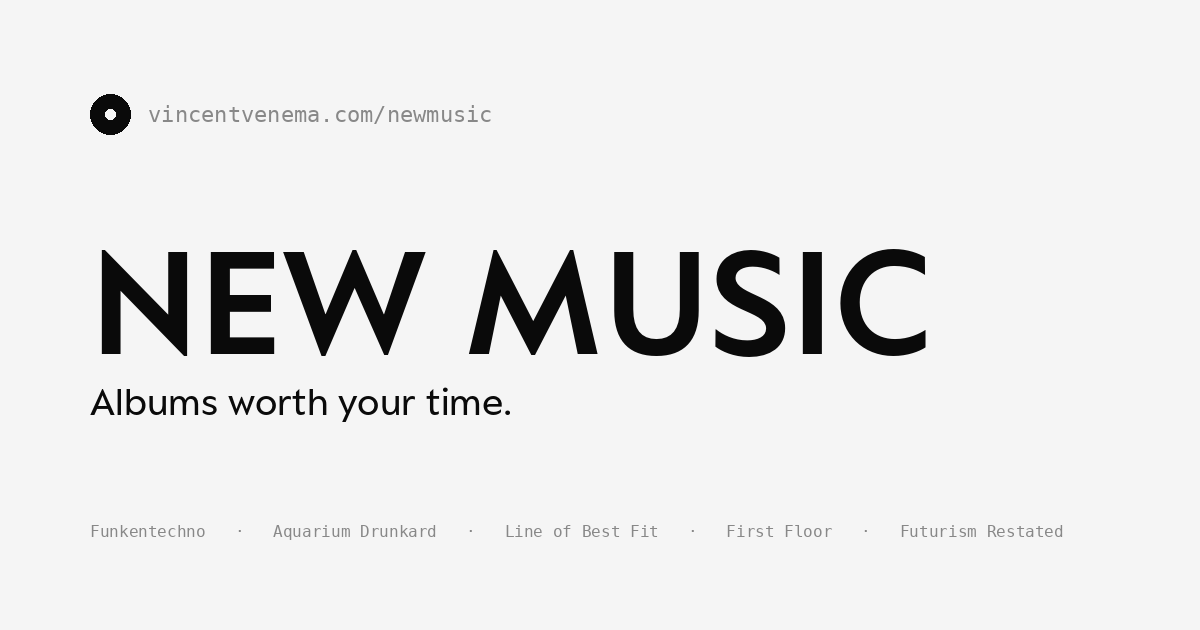
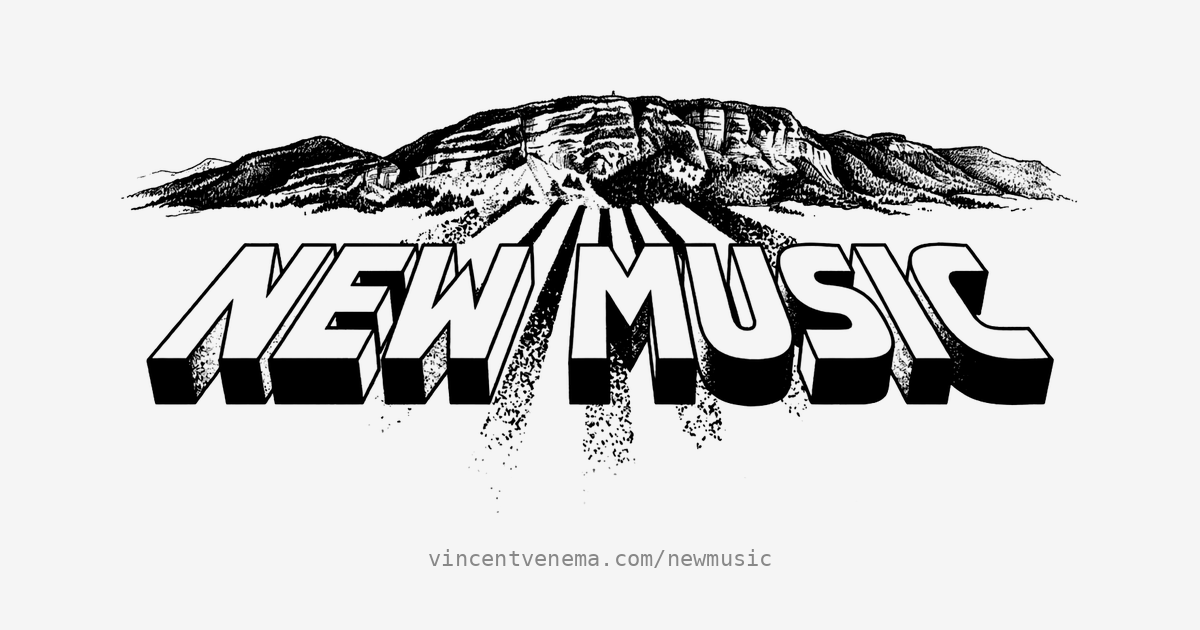
Add files via upload

diff --git a/index.html b/index.html
@@ -64,12 +64,10 @@
   .wrap { max-width: 720px; margin: 0 auto; }
 
   header { margin-bottom: 32px; }
-  h1 { font-size: clamp(34px, 10.5vw, 86px); font-weight: 500; line-height: 1.05; margin-bottom: 20px; letter-spacing: -0.03em; white-space: nowrap; }
-  h1 a {
-    color: var(--ink);
-    text-decoration: none;
-  }
-  h1 a:hover { text-decoration: underline; text-decoration-thickness: 2px; text-underline-offset: 6px; }
+  h1 { margin: 0 0 28px; line-height: 0; }
+  h1 a { display: block; }
+  .header-img { display: block; width: 100%; height: auto; transition: opacity 0.15s; }
+  h1 a:hover .header-img { opacity: 0.85; }
   .intro { font-size: 16px; line-height: 1.5; color: var(--soft); max-width: 520px; }
   .intro a {
     color: var(--soft); text-decoration: underline; text-decoration-color: var(--link-underline);
@@ -192,7 +190,7 @@
 <div class="wrap">
 
   <header>
-    <h1><a href="https://vincentvenema.com/newmusic/">NEW MUSIC 2026</a></h1>
+    <h1><a href="https://vincentvenema.com/newmusic/"><img src="assets/new-music-header.png" alt="New Music" class="header-img"></a></h1>
   </header>
 
   <nav class="tabs" id="tabs"></nav>
@@ -2104,7 +2102,7 @@ const ALBUMS_FIRSTFLOOR = [
 const ALBUMS_FUTURISM = [
 ];
 
-const LAST_UPDATED = "2026-06-12T11:03:31.935Z";
+const LAST_UPDATED = "2026-06-12T10:22:55.300Z";
 
 const SOURCES = [
   { id: 'FUNKENTECHNO', label: 'Funkentechno', intro: 'Album mentions from <a href="https://bsky.app/profile/funkentechno.bsky.social" target="_blank" rel="noopener">Funkentechno</a> on Bluesky.', albums: ALBUMS_FUNKENTECHNO },